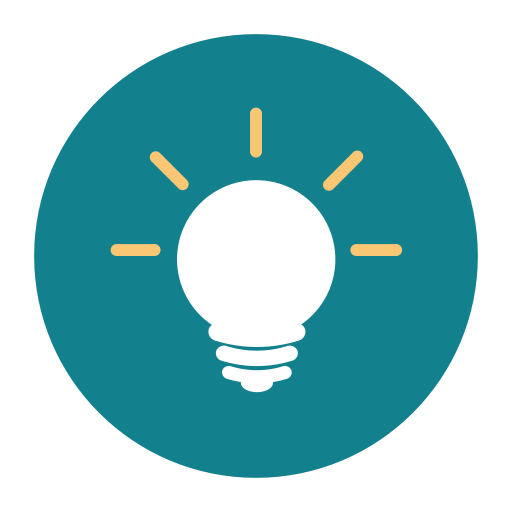
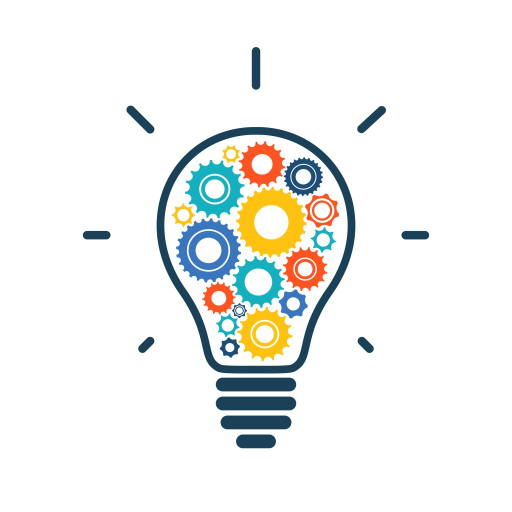
amelioration speed insight

diff --git a/ReactCoreCerebral/ClientApp/src/components/principal/MenuJeuFR.js b/ReactCoreCerebral/ClientApp/src/components/principal/MenuJeuFR.js
@@ -25,7 +25,7 @@ export default class MenuJeuFR extends Component {
         </Helmet>
       <h1 className="titre centre couleurTitre">Sport cérébral et jeux de réflexion</h1>
       <div className='centre'>evalquiz : le site numéro 1 du divertissement intelligent</div>
-      <Row className="centre"><img src={border} alt="bordure"></img></Row>
+      <Row className="centre"><img src={border} width="100" height="41" alt="bordure"></img></Row>
       <Row gutter={8} className="espaceHaut">
         <Col md={24}>
           <p>Nous vous proposons une série de tests simples et de petits jeux de réflexion pour faire travailler son cerveau en espérant améliorer ses capacités cognitives et son intelligence. Tous les jeux sont gratuits et ne nécessitent aucune inscription.</p>
@@ -34,14 +34,14 @@ export default class MenuJeuFR extends Component {
           <p>Les tests ne sont en aucun cas des tests scientifiques. Ce sont surtout des petits jeux de réflexion qui servent à évaluer ses capacités par rapport aux autres. A la fin de chaque jeu vous obtenez votre classement et votre position par rapport aux autres utilisateurs.</p>
           
           
-          <Row className="centre"><img src={border} alt="bordure" ></img></Row>
+          <Row className="centre"><img src={border} alt="bordure"  width="100" height="41" ></img></Row>
 
         </Col>
 
       </Row>
       <Row>
-        <h1 className="titre couleurTitre centre">Le challenge cérebral(nouveau)</h1>
-        <Row className="centre"><img src={border} alt="bordure"></img></Row>
+        <h1 className="titre couleurTitre centre">Le challenge cérebral (nouveau)</h1>
+        <Row className="centre"><img src={border} alt="bordure"  width="100" height="41"></img></Row>
         <Row>
         <div className="bordureInfo">
 
@@ -55,7 +55,7 @@ export default class MenuJeuFR extends Component {
 
       <Row>
         <h1 className="titre couleurTitre centre">Les défis</h1>
-        <Row className="centre"><img src={border} alt="bordure"></img></Row>
+        <Row className="centre"><img src={border} alt="bordure"  width="100" height="41"></img></Row>
         <Row gutter={8} className="espaceHaut">
 
           <Col md={10}>
@@ -72,7 +72,7 @@ export default class MenuJeuFR extends Component {
         </Row>
       </Row>
 
-      <div className="centre"><img src={border} alt="bordure"></img></div>
+      <div className="centre"><img src={border} alt="bordure"  width="100" height="41"></img></div>
 <h1 className="titre centre">Les tests</h1>
     <Row className="margeHaut">
     <Col xs={24} sm={12}><Link to="/calcul-mental"><div className="tuile">Calcul mental</div></Link></Col>
@@ -84,7 +84,7 @@ export default class MenuJeuFR extends Component {
 
 
 
-      <div className="centre"><img src={border} alt="bordure"></img></div>
+      <div className="centre"><img src={border} alt="bordure"  width="100" height="41"></img></div>
       <div className="centre"><img className="img-responsive" width="1000" height="396" src={presentation} alt="presentation"></img></div>
     <Tableau></Tableau>
       <Row><Ad></Ad></Row>

diff --git a/ReactCoreCerebral/ClientApp/public/index.html b/ReactCoreCerebral/ClientApp/public/index.html
@@ -2,9 +2,9 @@
 <html lang="en">
   <head>
     <meta charset="utf-8" />
-    <link rel="icon" href="%PUBLIC_URL%/favicon.ico" />
+
     <meta name="viewport" content="user-scalable=no, initial-scale=1, maximum-scale=1, minimum-scale=1, width=device-width, height=device-height, target-densitydpi=device-dpi" />
-    <link rel="icon" sizes="192x192" href="icon.png"><link rel="apple-touch-icon" href="ios-icon.png">
+    <link rel="icon" sizes="192x192" href="light192.png"><link rel="apple-touch-icon" href="light192.png">
     <script async src="//pagead2.googlesyndication.com/pagead/js/adsbygoogle.js"></script>
     <meta name="theme-color" content="#000000" />
    
@@ -21,16 +21,16 @@
     -->
     <style type="text/css">
      
-      .modalRgpd { background-color: rgb(255,255,255); opacity: .4 }
+      .modalRgpd { background-color: rgb(255,255,255); opacity: .8 }
 
-      .modalContent { position: absolute; bottom: 0px; right: 0px; background: black; color: white; padding: 10px; z-index: 3344223; width: 100%; text-align: center; pointer-events: all; opacity: 1; border: 1px solid black; width: 350px; display: none; }
+        .modalContent { position: absolute; bottom: 0px; left: 50%; transform: translateX(-50%); background: black; color: white; padding: 10px; z-index: 3344223; width: 100%; pointer-events: all; opacity: 1; border: 1px solid black; width: 320px; display: none; }
 
       .bandeauNon {height : 250px; color:black; width:100%; display:none; background-color: tan; padding: 50px 20px;}
 
       .rgpdMain { pointer-events: none; overflow: hidden; }
-      .buttonRefuse { margin-right: 10px; background-color: blueviolet;}
-      .buttonAccept { margin-right: 10px; background-color: blueviolet; padding: 7px;}
-      .buttonChoisir { margin-right: 10px; background-color: blueviolet; padding: 5px; color: white } 
+
+        .buttonAccept { margin-right: 15px; background-color: #0413ff; padding: 7px; }
+   
       .espaceDroit10 { margin-right: 10px; }
   </style>
 
@@ -118,7 +118,7 @@
 
         <p>Nous travaillons avec la société Google et avec des technologies comme les cookies pour stocker et/ou accéder à des informations personnelles non sensibles stockées sur votre terminal (identifiants uniques, …), que nous traitons afin de réaliser des statistiques d'usage du site, personnaliser les publicités et le contenu et en mesurer les performances, produire des données d’audience, développer et améliorer les produits. </p>
         <p>Acceptez-vous les cookies déposés pour la publicité et les mesures d'audience ?</p>
-        <p>  <a class="buttonChoisir espaceDroit10" href="https://evalquiz.com/home/choisir">Choisir</a><button id="accepter" class="buttonAccept"><b>J'accepte</b></button></p>
+        <div>  <a  style="color: white; text-decoration: underline; font-size: 1.2em;" href="https://evalquiz.com/home/choisir">Choisir</a></div><div class="centre"><button id="accepter" class="buttonAccept"><b>J'accepte</b></button></div>
 
     </div>
   <div id="modalRgpd">

diff --git a/ReactCoreCerebral/ClientApp/src/components/principal/Logique.js b/ReactCoreCerebral/ClientApp/src/components/principal/Logique.js
@@ -31,7 +31,7 @@ export default class Logique extends Component {
       <div className="titre centre couleurTitre">Sport cérébral</div>
       <div className='centre'>evalquiz : le site numéro 1 du divertissement intelligent</div>
       <h2 className="titre couleurTitre centre">Les tests de logique</h2>
-      <Row className="centre"><img src={border} alt="bordure"></img></Row>
+        <Row className="centre"><img src={border} alt="bordure" width="100" height="41"></img></Row>
 
 
         <Row gutter={8} className="espaceHaut">
@@ -49,7 +49,7 @@ export default class Logique extends Component {
           </Col>
         </Row>
 
-        <Row className="centre"><img src={border} alt="bordure"></img></Row>
+        <Row className="centre"><img src={border} alt="bordure" width="100" height="41"></img></Row>
 
 
         <Row gutter={8} className="espaceHaut">
@@ -66,7 +66,7 @@ export default class Logique extends Component {
             <div className="centre"><img className="img-responsive" width="300" height="295" src={bingo} alt="le jeu du bingo"></img></div>
           </Col>
         </Row>
-        <Row className="centre"><img src={border} alt="bordure"></img></Row>
+        <Row className="centre"><img src={border} alt="bordure" width="100" height="41"></img></Row>
         <Row gutter={8} className="espaceHaut">
           <Col md={10}>
             <h2>Retrouvez la tuile solitaire</h2>
@@ -78,7 +78,7 @@ export default class Logique extends Component {
             <SousMenu type="mahJong" titre="MAH_TITLE"></SousMenu>
           </Col>
         </Row>
-        <Row className="centre"><img src={border} alt="bordure"></img></Row>
+        <Row className="centre"><img src={border} alt="bordure" width="100" height="41"></img></Row>
 
         <Row gutter={8} className="espaceHaut">
           <Col md={10}>
@@ -92,7 +92,7 @@ export default class Logique extends Component {
             <SousMenu type="tri" titre="TRI_TITLE"></SousMenu>
           </Col>
         </Row>
-        <Row className="centre"><img src={border} alt="bordure"></img></Row>
+        <Row className="centre"><img src={border} alt="bordure" width="100" height="41"></img></Row>
 
       <Row gutter={8} className="espaceHaut">
         <Col md={10}>
@@ -106,7 +106,7 @@ export default class Logique extends Component {
           <SousMenu type="memoireFamille" titre="FAMILLE_TITLE"></SousMenu>
         </Col>
       </Row>
-      <Row className="centre"><img src={border} alt="bordure"></img></Row>
+        <Row className="centre"><img src={border} alt="bordure" width="100" height="41"></img></Row>
 
       <Ad></Ad>
   </div>

diff --git a/ReactCoreCerebral/ClientApp/src/components/principal/MenuJeuEN.js b/ReactCoreCerebral/ClientApp/src/components/principal/MenuJeuEN.js
@@ -33,7 +33,7 @@ export default class MenuJeuFR extends Component {
 
     
           <h1 className="titre centre">Brain games</h1>
-          <Row className="centre"><img src={border} alt="bordure"></img></Row>
+        <Row className="centre"><img src={border} alt="bordure" width="100" height="41"></img></Row>
           <Row gutter={8} className="espaceHaut">
         <Col md={24}>
           <p>Train your brain by practising a set of simple exercises and small games to improve your cognitive abilities and intelligence. 
@@ -47,7 +47,7 @@ export default class MenuJeuFR extends Component {
 
       <Row>
         <h1 className="titre couleurTitre centre">The challenges</h1>
-        <Row className="centre"><img src={border} alt="bordure"></img></Row>
+            <Row className="centre"><img src={border} alt="bordure" width="100" height="41"></img></Row>
         <Row gutter={8} className="espaceHaut">
 
           <Col md={10}>
@@ -67,7 +67,7 @@ export default class MenuJeuFR extends Component {
 
       <Row>
         <h1 className="titre couleurTitre centre">The puzzles</h1>
-        <Row className="centre"><img src={border} alt="bordure"></img></Row>
+            <Row className="centre"><img src={border} alt="bordure" width="100" height="41"></img></Row>
         <Row gutter={8} className="espaceHaut">
 
           <Col md={10}>
@@ -98,7 +98,7 @@ export default class MenuJeuFR extends Component {
       </Row>
       <Row>
         <h1 className="titre couleurTitre centre">The logic</h1>
-        <Row className="centre"><img src={border} alt="bordure"></img></Row>
+            <Row className="centre"><img src={border} alt="bordure" width="100" height="41"></img></Row>
         <Row gutter={8} className="espaceHaut">
           <Col md={10}>
             <h2>The count is good</h2>
@@ -222,7 +222,7 @@ You can then evaluate your reaction time in relation to other players.</p>
       </Row>
       <Row>
         <h1 className="titre couleurTitre centre">The memory</h1>
-        <Row className="centre"><img src={border} alt="bordure"></img></Row>
+            <Row className="centre"><img src={border} alt="bordure" width="100" height="41"></img></Row>
         <Row gutter={8} className="espaceHaut">
           <Col md={10}>
             <h2>Memorize cards</h2>

diff --git a/ReactCoreCerebral/ClientApp/src/components/principal/Memoire.js b/ReactCoreCerebral/ClientApp/src/components/principal/Memoire.js
@@ -33,7 +33,7 @@ export default class Memoire extends Component {
 
       <Row>
         
-        <Row className="centre"><img src={border} alt="bordure"></img></Row>
+            <Row className="centre"><img src={border} alt="bordure" width="100" height="41"></img></Row>
 
         <Row gutter={8} className="espaceHaut">
           <Col md={10}>
@@ -50,7 +50,7 @@ export default class Memoire extends Component {
             <SousMenu type="memoryGame" titre="MEMORY_TITLE"></SousMenu>
           </Col>
         </Row>
-        <Row className="centre"><img src={border} alt="bordure"></img></Row>
+            <Row className="centre"><img src={border} alt="bordure" width="100" height="41"></img></Row>
   <Row gutter={8} className="espaceHaut">
           <Col md={10}>
             <h2>Le jeu de Simon</h2>
@@ -64,7 +64,7 @@ export default class Memoire extends Component {
             <SousMenu type="simon" titre="SIMON_TITLE"></SousMenu>
           </Col>
         </Row>
-        <Row className="centre"><img src={border} alt="bordure"></img></Row>
+            <Row className="centre"><img src={border} alt="bordure" width="100" height="41"></img></Row>
         <Row gutter={8} className="espaceHaut">
           <Col md={10}>
             <h2>Mémoriser des cartes</h2>
@@ -77,7 +77,7 @@ export default class Memoire extends Component {
             <SousMenu type="esp" titre="ESP_TITLE"></SousMenu>
           </Col>
         </Row>
-        <Row className="centre"><img src={border} alt="bordure"></img></Row>
+            <Row className="centre"><img src={border} alt="bordure" width="100" height="41"></img></Row>
         <Row gutter={8} className="espaceHaut">
           <Col md={10}>
             <h2>Mémoriser un dessin</h2>
@@ -90,7 +90,7 @@ export default class Memoire extends Component {
             <SousMenu type="memoireDessin" titre="DESSIN_TITLE"></SousMenu>
           </Col>
         </Row>
-        <Row className="centre"><img src={border} alt="bordure"></img></Row>
+            <Row className="centre"><img src={border} alt="bordure" width="100" height="41"></img></Row>
         <Row gutter={8} className="espaceHaut">
           <Col md={10}>
             <h2>Se souvenir de l'image précédente</h2>

diff --git a/ReactCoreCerebral/ClientApp/src/components/principal/Calcul.js b/ReactCoreCerebral/ClientApp/src/components/principal/Calcul.js
@@ -31,7 +31,7 @@ export default class Logique extends Component {
 
 
 
-<Row className="centre"><img src={border} alt="bordure"></img></Row>
+        <Row className="centre"><img src={border} alt="bordure" width="100" height="41"></img></Row>
 
 
         <Row gutter={8} className="espaceHaut">
@@ -49,7 +49,7 @@ export default class Logique extends Component {
             <SousMenu type="math" titre="MATH_TITLE"></SousMenu>
           </Col>
         </Row>
-        <Row className="centre"><img src={border} alt="bordure"></img></Row>
+        <Row className="centre"><img src={border} alt="bordure" width="100" height="41"></img></Row>
         <Row gutter={8} className="espaceHaut">
 
           <Col md={10}>
@@ -63,7 +63,7 @@ export default class Logique extends Component {
             <SousMenu type="pyramide" titre="PYRAMIDE_TITLE"></SousMenu>
           </Col>
         </Row>
-        <Row className="centre"><img src={border} alt="bordure"></img></Row>
+        <Row className="centre"><img src={border} alt="bordure" width="100" height="41"></img></Row>
         <Row gutter={8} className="espaceHaut">
 
           <Col md={10}>

diff --git a/ReactCoreCerebral/ClientApp/src/components/principal/ChiffresLettres.js b/ReactCoreCerebral/ClientApp/src/components/principal/ChiffresLettres.js
@@ -32,10 +32,10 @@ export default class ChiffreLetttre extends Component {
 
     
         <h2 className="titre couleurTitre centre">Des chiffres et des lettres</h2>
-        <Row className="centre"><img src={border} alt="bordure"></img></Row>
+        <Row className="centre"><img src={border} alt="bordure" width="100" height="41"></img></Row>
    
     
-      <div className="centre"><img src={border} alt="bordure"></img></div>
+        <div className="centre"><img src={border} alt="bordure" width="100" height="41"></img></div>
         <Row gutter={8} className="espaceHaut">
           <Col md={10}>
             <h2>Le mot le plus long</h2>
@@ -66,7 +66,7 @@ export default class ChiffreLetttre extends Component {
             </div>
           </Col>
         </Row>
-        <Row className="centre"><img src={border} alt="bordure"></img></Row>
+        <Row className="centre"><img src={border} alt="bordure" width="100" height="41"></img></Row>
         <Row gutter={8} className="espaceHaut">
           <Col md={10}>
             <h2>Le compte est bon</h2>

diff --git a/ReactCoreCerebral/ClientApp/src/components/commun/Tableau.js b/ReactCoreCerebral/ClientApp/src/components/commun/Tableau.js
@@ -36,12 +36,12 @@ class Tableau extends Component {
       
       <h1>{intl.get('TABLEAU_TITRE')}</h1>
       <p>{intl.get('TABLEAU_MSG')}</p>
-      <Row className="centre espaceTitreBas"><img src={borderHonneur} alt="bordure" ></img></Row>
+            <Row className="centre espaceTitreBas"><img src={borderHonneur} alt="bordure" width="100" height="41" ></img></Row>
   </div>
       <Row gutter={[16, { xs: 8, sm: 16, md: 24, lg: 32 }]}>
         {this.state.resultats.map((info, i) => <Col key={i} xs={{ span: 24 }} sm={{ span: 12 }} md={{ span: 12 }}  xl={{ span: 6 }}><Card className="hauteurCarte">
           <Meta
-            avatar={<Avatar src={laurier} />}
+            avatar={<Avatar src={laurier} alt="laurier de la victoire" />}
             title={<span className="couleurHonneur">{info.prenom.length > 15 ? info.prenom.slice(0, 15) : info.prenom}</span>}
           />
           <p>{intl.get('TABLEAU_FAUTE')} </p>

diff --git a/ReactCoreCerebral/ClientApp/src/components/principal/Puzzle.js b/ReactCoreCerebral/ClientApp/src/components/principal/Puzzle.js
@@ -30,7 +30,7 @@ export default class Puzzle extends Component {
 
       <Row>
         <h2 className="titre couleurTitre centre">Les puzzles</h2>
-        <Row className="centre"><img src={border} alt="bordure"></img></Row>
+            <Row className="centre"><img src={border} alt="bordure" width="100" height="41"></img></Row>
         <Row gutter={8} className="espaceHaut">
 
           <Col md={10}>
@@ -45,7 +45,7 @@ export default class Puzzle extends Component {
             <SousMenu type="puzzle" titre="PUZZLE_TITLE"></SousMenu>
           </Col>
         </Row>
-        <div className="centre"><img src={border} alt="bordure"></img></div>
+            <div className="centre"><img src={border} alt="bordure" width="100" height="41"></img></div>
         <Row gutter={8} className="espaceHaut">
           <Col md={10}>
             <h1>Puzzle : remettre en ordre une image</h1>

diff --git a/ReactCoreCerebral/ClientApp/src/style/jeux.css b/ReactCoreCerebral/ClientApp/src/style/jeux.css
@@ -7,7 +7,7 @@
     display: flex;
     align-items: center;
     justify-content: center;
-    background-color: #41383b12;;
+    background-color: #41383b12;
     margin: 10px;
     font-size: 1.5em;
     border-radius: 5px;
@@ -56,7 +56,7 @@ ul li {
 }
 
 .couleurHonneur {
-     color: #fe07fe;
+     color: #cf0186;
 }
 
 .grandeLettre {
@@ -1205,7 +1205,7 @@ ul li {
 }
 
 .couleurTitre {
-     color: #e317c0;
+     color: #cc04aa;
 }
 
 /* Memoire */

diff --git a/ReactCoreCerebral/ClientApp/config-overrides.js b/ReactCoreCerebral/ClientApp/config-overrides.js
@@ -12,6 +12,10 @@ addLessLoader({
    modifyVars: { "@layout-body-background": "#ffffff",
      "@layout-header-background" : "#afe4e2",
     "@menu-bg" : "#afe4e2",
-    "@font-size-base" : "16px"},
+    "@font-size-base" : "16px", 
+    "@text-color": "rgba(0, 0, 0, 0.9)",
+    "@heading-color": "rgba(0, 0, 0, 1)",
+       "link-color": "#024482",
+  }
   }),
 );
